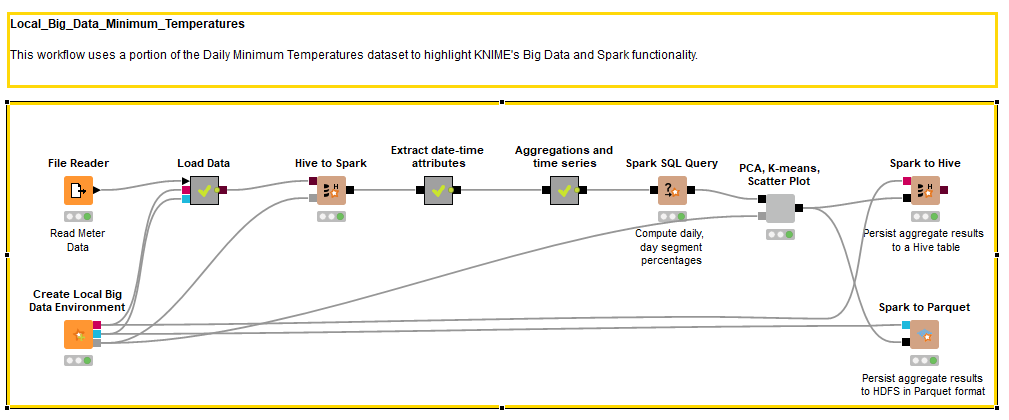
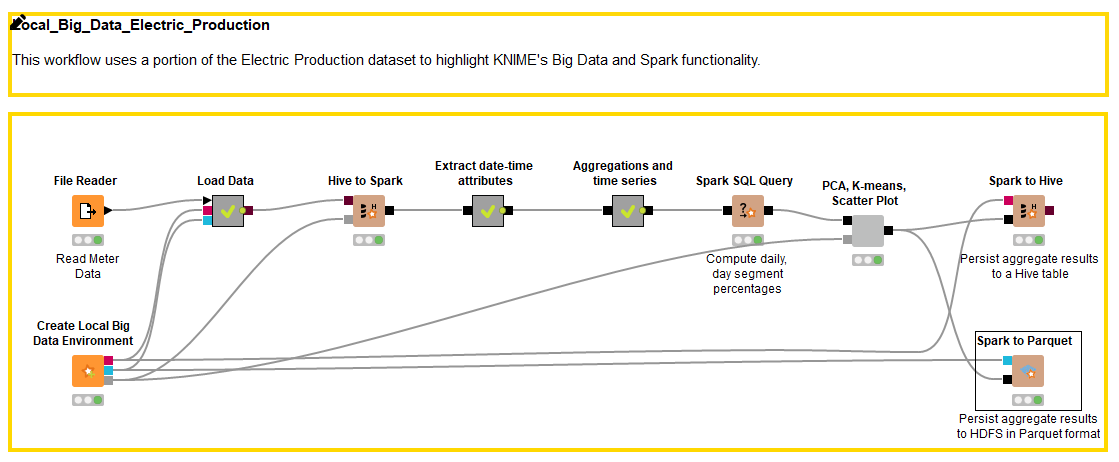
update

diff --git a/Tugas EAS/09_Big_Data_Monthly_Beer_Production_on_Spark_only/Readme.md b/Tugas EAS/09_Big_Data_Monthly_Beer_Production_on_Spark_only/Readme.md
@@ -1,5 +1,5 @@
 # Big Data : Evaluasi Akhir Semester
-# Electric Production
+# Monthly Beer Production
 
 ![enter image description here](Dokumentasi/workflow.PNG)
 
@@ -14,12 +14,12 @@
 # Data Understanding
 ![enter image description here](Dokumentasi/data_understanding/data.PNG)
 
-Merupakan dataset yang isinya pencatatan produksi electric setiap hari
+Merupakan dataset yang isinya pencatatan produksi beer setiap bulan
 
 Dataset yang digunakan terdapat 2 attribut utama
 
- - DATE: Tanggal produksi.
- - IPG2211A2N: Satuan utilitas elektrik dan gas.
+ - **Month**: Bulan Produksi beer
+ - **monthly_beer_production**: Satuan produksi beer setiap bulannya
 
 # Data Preparation
 
@@ -51,7 +51,7 @@ Dataset yang sebelumnya sudah diload ke **File Reader**, akan diload ke HIVE men
 Jadi untuk dataset yang sebelumnya di baca oleh node **FIle Reader** akan di load ke dalam HIVE menggunakan meta node **Load Data** 
 
 Di dalam metanode Load Data, terdapat 2 proses lagi, yaitu **DB Table Creator** dan **DB Loader**.
-Pada node **DB Table Creator**, table HIVE diberi nama **suhu**
+Pada node **DB Table Creator**, table HIVE diberi nama **beer**
 
 ![enter image description here](Dokumentasi/modeling/table_creator.PNG)
 
@@ -109,7 +109,7 @@ Untuk deployment sendiri, data dari step Evaluation akan di deploy ke dalam HIVE
 
 ![enter image description here](Dokumentasi/deployment/spark_to_hive.PNG)
 
-Tabel akan diberi nama **hasil**
+Tabel akan diberi nama **hasil_beer**
 
 ![enter image description here](Dokumentasi/deployment/result.PNG)
 
@@ -117,7 +117,7 @@ Berikut merupakankonfigurasi untuk **Spark to Parquet**
 
 ![enter image description here](Dokumentasi/deployment/spark_to_parquet.PNG)
 
-Untuk hasilnya sendiri akan disimpan pada direktori **/suhu_aggs**. 
+Untuk hasilnya sendiri akan disimpan pada direktori **/beer_aggs**. 
 Berikut adalah hasilnya:
 
 ![enter image description here](Dokumentasi/deployment/parquet_result.PNG)

diff --git a/Tugas EAS/09_Big_Data_Electric_Production_on_Spark_only/Readme.md b/Tugas EAS/09_Big_Data_Electric_Production_on_Spark_only/Readme.md
@@ -16,10 +16,10 @@
 
 Merupakan dataset yang isinya pencatatan suhu terendah setiap hari
 
-Dataset yang digunakan terdapat 3 attribut utama
+Dataset yang digunakan terdapat 2 attribut utama
 
- - **Date**: Tanggal yang terecord
- - **daily_minimum_temperature**: suhu terendah setiap harinya
+ - **DATE**: Tanggal produksi.
+ - **IPG2211A2N**: Satuan utilitas elektrik dan gas.
 
 # Data Preparation
 
